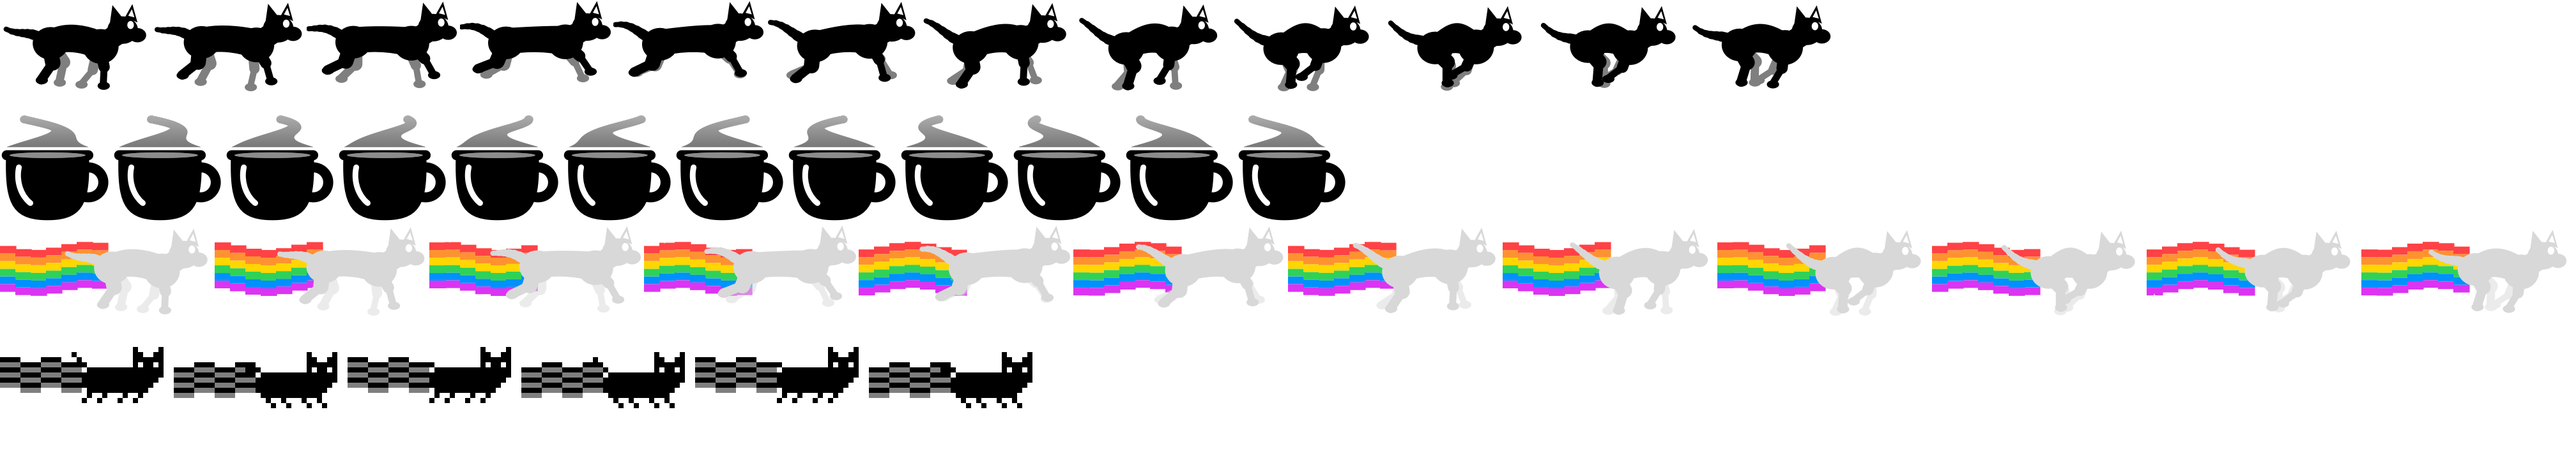
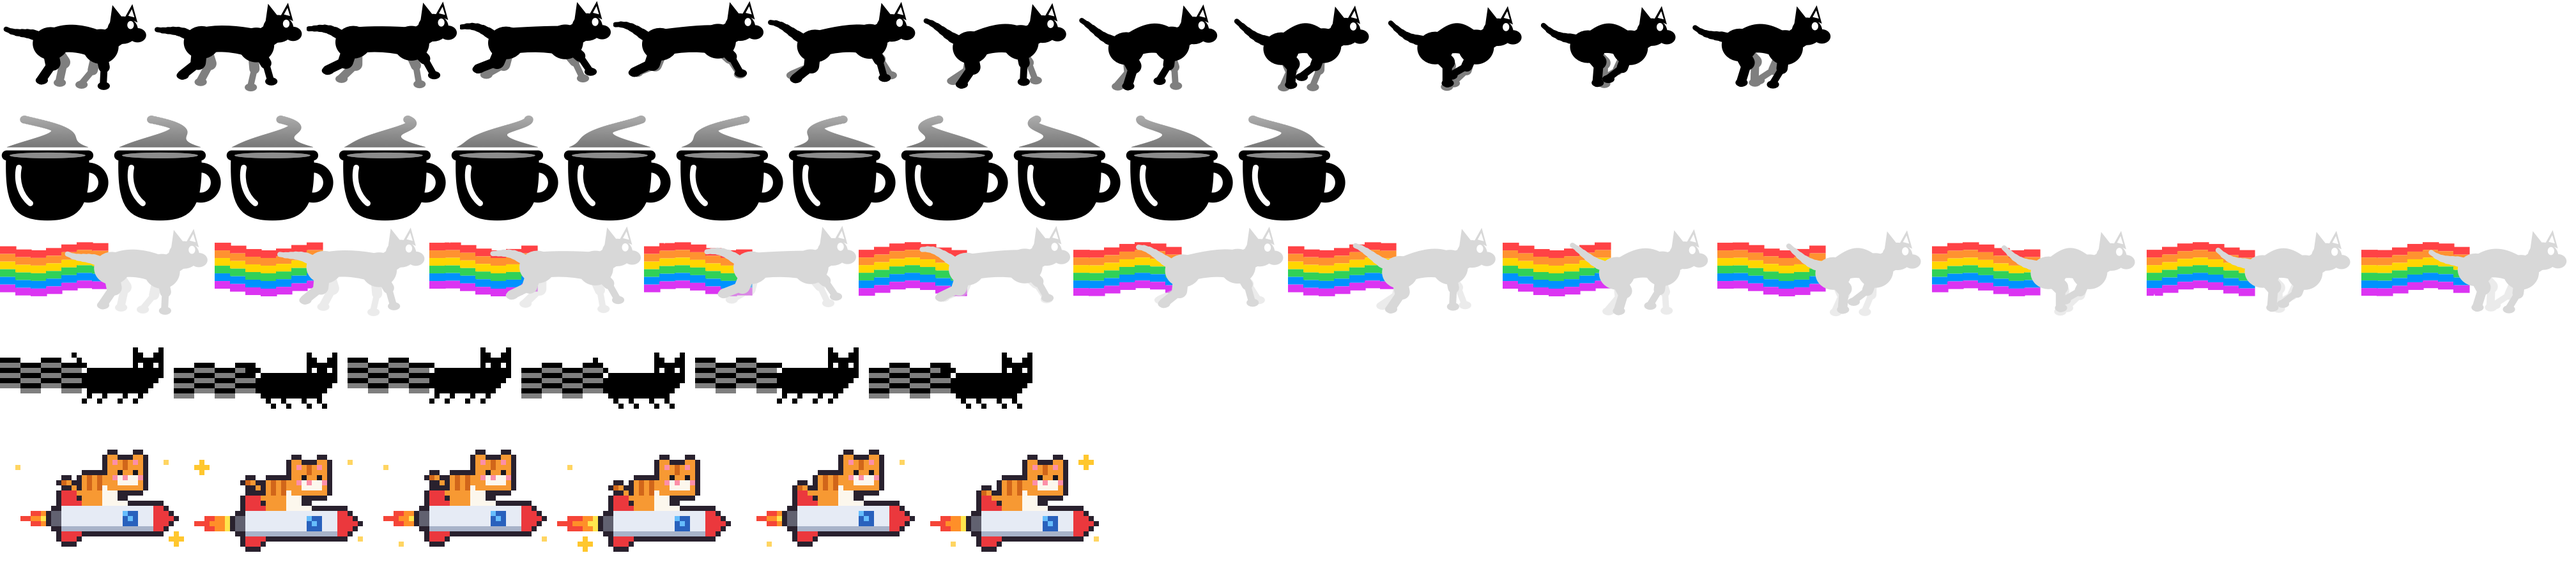
Add Rocket Cat runner
Original colour pixel art on a 36x20 grid: an orange tabby (stripes,
white muzzle and belly, blush, wagging tail) riding a rocket (hull
shading, red nose and fins, porthole, nozzle) with a flickering
yellow-orange-red flame, twinkling stars and a 1px bob. Solid pixels
get an automatic dark outline so it reads on light menu bars.

Debug: --runner <id> out.png renders one runner at 12x on dark and
light backgrounds.

diff --git a/main.swift b/main.swift
@@ -256,7 +256,90 @@ struct Runner {
         }
     }
 
-    static let all: [Runner] = [cat, coffee, rainbow, pixelCat]
+    static let all: [Runner] = [cat, coffee, rainbow, pixelCat, rocketCat]
+
+    // 橘猫火箭（原创彩色像素画）：橘猫骑着小火箭，尾焰闪烁，星星一闪一闪
+    static let rocketCat = Runner(id: "rocket", name: "橘猫火箭|Rocket Cat", frameCount: 6, size: NSSize(width: 36, height: 20), template: false) { t in
+        let W = 36, H = 20
+        let f = Int((t / (2 * .pi) * 6).rounded()) % 6
+        func c(_ r: Double, _ g: Double, _ b: Double) -> NSColor { NSColor(srgbRed: r, green: g, blue: b, alpha: 1) }
+        let orange = c(0.97, 0.60, 0.20), stripe = c(0.82, 0.40, 0.10), white = c(0.99, 0.97, 0.93)
+        let pink = c(0.99, 0.56, 0.66), eye = c(0.10, 0.09, 0.12), outline = c(0.16, 0.13, 0.18)
+        let hull = c(0.90, 0.92, 0.96), hullShade = c(0.66, 0.70, 0.79), red = c(0.92, 0.22, 0.24)
+        let glass = c(0.40, 0.74, 0.99), glassDark = c(0.16, 0.38, 0.74), nozzle = c(0.38, 0.38, 0.44)
+        let flameY = c(1.0, 0.90, 0.30), flameO = c(1.0, 0.56, 0.16), flameR = c(0.96, 0.27, 0.22)
+
+        var grid = [[NSColor?]](repeating: [NSColor?](repeating: nil, count: W), count: H)
+        let bob = f % 2 + 1                              // 整体上下颠簸 1 格（+1 给顶部描边留空间）
+        func set(_ x: Int, _ y: Int, _ col: NSColor) {
+            let yy = y + bob
+            if x >= 0 && x < W && yy >= 0 && yy < H { grid[yy][x] = col }
+        }
+        func rect(_ x0: Int, _ y0: Int, _ x1: Int, _ y1: Int, _ col: NSColor) {
+            for y in y0...y1 { for x in x0...x1 { set(x, y, col) } }
+        }
+
+        // —— 火箭（朝右）
+        rect(12, 10, 29, 14, hull)
+        rect(12, 14, 29, 14, hullShade)                  // 底部阴影
+        for (y, len) in [(10, 2), (11, 3), (12, 4), (13, 3), (14, 2)] { rect(30, y, 29 + len, y, red) }   // 尖头
+        rect(12, 7, 14, 9, red); set(15, 9, red)         // 上尾翼
+        rect(12, 15, 14, 16, red); set(15, 15, red)      // 下尾翼
+        rect(10, 11, 11, 13, nozzle)                     // 喷口
+        rect(24, 11, 26, 13, glassDark); set(25, 12, glass); set(24, 11, glass)   // 舷窗
+
+        // —— 橘猫（坐在火箭上，面朝右）
+        rect(16, 4, 22, 9, orange)                       // 身体
+        for x in [17, 19] { rect(x, 4, x, 6, stripe) }   // 条纹
+        rect(20, 6, 22, 9, white)                        // 肚皮
+        rect(21, 1, 27, 6, orange)                       // 头
+        set(21, 0, orange); set(22, 0, orange); set(26, 0, orange); set(27, 0, orange)   // 耳朵
+        set(22, 1, pink); set(26, 1, pink)               // 耳朵内侧
+        set(24, 1, stripe); set(24, 2, stripe)           // 额头条纹
+        set(23, 3, eye); set(26, 3, eye)                 // 眼睛
+        rect(23, 4, 26, 5, white)                        // 嘴巴
+        set(24, 4, pink)                                 // 鼻子
+        set(22, 4, pink); set(27, 4, pink)               // 腮红
+        rect(22, 9, 24, 9, white)                        // 前爪抱住火箭
+        // 尾巴：向后飘，随帧上下甩
+        let tailY = [5, 4, 4, 5, 6, 6][f]
+        set(15, 7, orange); set(14, tailY + 1, orange); set(13, tailY, orange); set(12, tailY, stripe)
+
+        // —— 自动描边：实心像素四周的空格画深色轮廓
+        let solid = grid.map { $0.map { $0 != nil } }
+        for y in 0..<H { for x in 0..<W where !solid[y][x] {
+            let n = [(x - 1, y), (x + 1, y), (x, y - 1), (x, y + 1)]
+            if n.contains(where: { $0.0 >= 0 && $0.0 < W && $0.1 >= 0 && $0.1 < H && solid[$0.1][$0.0] }) { grid[y][x] = outline }
+        } }
+
+        // —— 尾焰（不描边）：黄 → 橙 → 红，长度闪动
+        let len = [6, 8, 7, 9, 6, 8][f]
+        for (dy, short) in [(11, 2), (12, 0), (13, 2)] {
+            let l = len - short
+            for i in 0..<max(l, 0) {
+                let x = 9 - i
+                let col = i < l / 3 ? flameY : (i < l * 2 / 3 ? flameO : flameR)
+                if x >= 0 && grid[dy + bob][x] == nil { grid[dy + bob][x] = col }
+            }
+        }
+
+        // —— 画像素
+        let ctx = NSGraphicsContext.current!.cgContext
+        ctx.setShouldAntialias(false)
+        for y in 0..<H { for x in 0..<W { if let col = grid[y][x] { col.setFill(); NSRect(x: x, y: H - 1 - y, width: 1, height: 1).fill() } } }
+
+        // —— 星星：一闪一闪，亮时是十字
+        for (sx, sy, ph) in [(3, 3, 0), (32, 2, 2), (6, 18, 4), (34, 17, 1)] {
+            let phase = (f + ph) % 6
+            guard phase < 4 else { continue }
+            let col = NSColor(srgbRed: 1, green: 0.78, blue: 0.18, alpha: phase == 1 ? 1 : 0.75)   // 暖黄，浅色背景也看得见
+            col.setFill()
+            NSRect(x: sx, y: H - 1 - sy, width: 1, height: 1).fill()
+            if phase == 1 {
+                for (dx, dy) in [(-1, 0), (1, 0), (0, -1), (0, 1)] { NSRect(x: sx + dx, y: H - 1 - sy - dy, width: 1, height: 1).fill() }
+            }
+        }
+    }
 
     // 像素猫（原创像素格）：单色胖像素猫 + 深浅交替的像素条纹尾迹，模板图随菜单栏变色
     static let pixelCat = Runner(id: "pixel", name: "像素猫|Pixel Cat", frameCount: 6, size: NSSize(width: 34, height: 16)) { t in
@@ -2178,6 +2261,27 @@ if CommandLine.arguments.count == 2, CommandLine.arguments[1] == "--stats" {
           "ssd", t.ssd.map { String(format: "%.1f", $0) } ?? "nil")
     print("network up", NetMonitor.format(nr.up), "down", NetMonitor.format(nr.down))
     for a in ProcessMemory.top(10) { print("  mem", ProcessMemory.format(a.bytes), "×\(a.processes)", a.name) }
+    exit(0)
+}
+
+// MenuRunner --runner <id> out.png：单个 runner 放大 12 倍，上行深色背景、下行浅色背景
+if CommandLine.arguments.count == 4, CommandLine.arguments[1] == "--runner",
+   let r = Runner.all.first(where: { $0.id == CommandLine.arguments[2] }) {
+    let sc: CGFloat = 12, fw = r.size.width * sc, fh = r.size.height * sc
+    let frames = r.frames()
+    let sheet = NSImage(size: NSSize(width: fw * CGFloat(frames.count), height: fh * 2), flipped: true) { _ in
+        for (row, bg) in [NSColor(white: 0.13, alpha: 1), NSColor(white: 0.93, alpha: 1)].enumerated() {
+            bg.setFill(); NSRect(x: 0, y: CGFloat(row) * fh, width: fw * CGFloat(frames.count), height: fh).fill()
+            NSGraphicsContext.current?.imageInterpolation = .none
+            for (i, img) in frames.enumerated() {
+                img.draw(in: NSRect(x: CGFloat(i) * fw, y: CGFloat(row) * fh, width: fw, height: fh), from: .zero,
+                         operation: .sourceOver, fraction: 1, respectFlipped: true, hints: nil)
+            }
+        }
+        return true
+    }
+    let rep = NSBitmapImageRep(data: sheet.tiffRepresentation!)!
+    try! rep.representation(using: .png, properties: [:])!.write(to: URL(fileURLWithPath: CommandLine.arguments[3]))
     exit(0)
 }
 

diff --git a/README.md b/README.md
@@ -15,13 +15,15 @@
 
 <img src="docs/settings.png" width="200" alt="Settings">
 
+<img src="docs/rocket.png" width="640" alt="Rocket Cat">
+
 <img src="docs/runners.png" alt="Runners">
 
 </div>
 
 ## Features
 
-- **Runners** — a galloping cat, a steaming coffee cup a rainbow cat (our cat flying with a waving rainbow trail and twinkling stars) and a monochrome pixel cat with a stepped stripe trail — all original designs, drawn in code as template images that adapt to light / dark menu bars. Their speed follows CPU, GPU or memory usage.
+- **Runners** — a galloping cat, a steaming coffee cup a rainbow cat (our cat flying with a waving rainbow trail and twinkling stars) a monochrome pixel cat with a stepped stripe trail, and a colour pixel-art Rocket Cat (an orange tabby riding a rocket with a flickering flame) — all original designs, drawn in code as template images that adapt to light / dark menu bars. Their speed follows CPU, GPU or memory usage.
 - **Menu bar metrics with live mini graphs** — CPU, GPU, memory, battery, network, SoC or battery temperature. Choose *Graph + Number*, *Graph only* or *Number only*.
 - **Liquid Glass panel** (`NSPopover` + `NSGlassEffectView`), animated at 60 fps:
   - Machine spec — model, chip, CPU / GPU cores, memory, disk, macOS version

diff --git a/README.zh-CN.md b/README.zh-CN.md
@@ -15,13 +15,15 @@
 
 <img src="docs/settings.png" width="200" alt="设置">
 
+<img src="docs/rocket.png" width="640" alt="橘猫火箭">
+
 <img src="docs/runners.png" alt="Runner">
 
 </div>
 
 ## 功能
 
-- **Runner**：奔跑的猫、冒热气的咖啡、彩虹猫（我们的小猫拖着波浪彩虹在空中飞，周围有星星闪烁）、单色像素猫（拖着阶梯状条纹尾迹），均为原创设计，用代码绘制的模板图，自动适配深浅色菜单栏；速度可以跟随 CPU、GPU 或内存占用。
+- **Runner**：奔跑的猫、冒热气的咖啡、彩虹猫（我们的小猫拖着波浪彩虹在空中飞，周围有星星闪烁）、单色像素猫（拖着阶梯状条纹尾迹）、彩色像素画「橘猫火箭」（橘猫骑着火箭，尾焰闪烁），均为原创设计，用代码绘制的模板图，自动适配深浅色菜单栏；速度可以跟随 CPU、GPU 或内存占用。
 - **菜单栏指标 + 动态小图**：CPU、GPU、内存、电池、网络、芯片或电池温度；可选「图表 + 数字」「仅图表」「仅数字」。
 - **液态玻璃面板**（`NSPopover` + `NSGlassEffectView`），60fps 动画：
   - 本机配置：机型、芯片、CPU / GPU 核心数、内存、硬盘、系统版本
